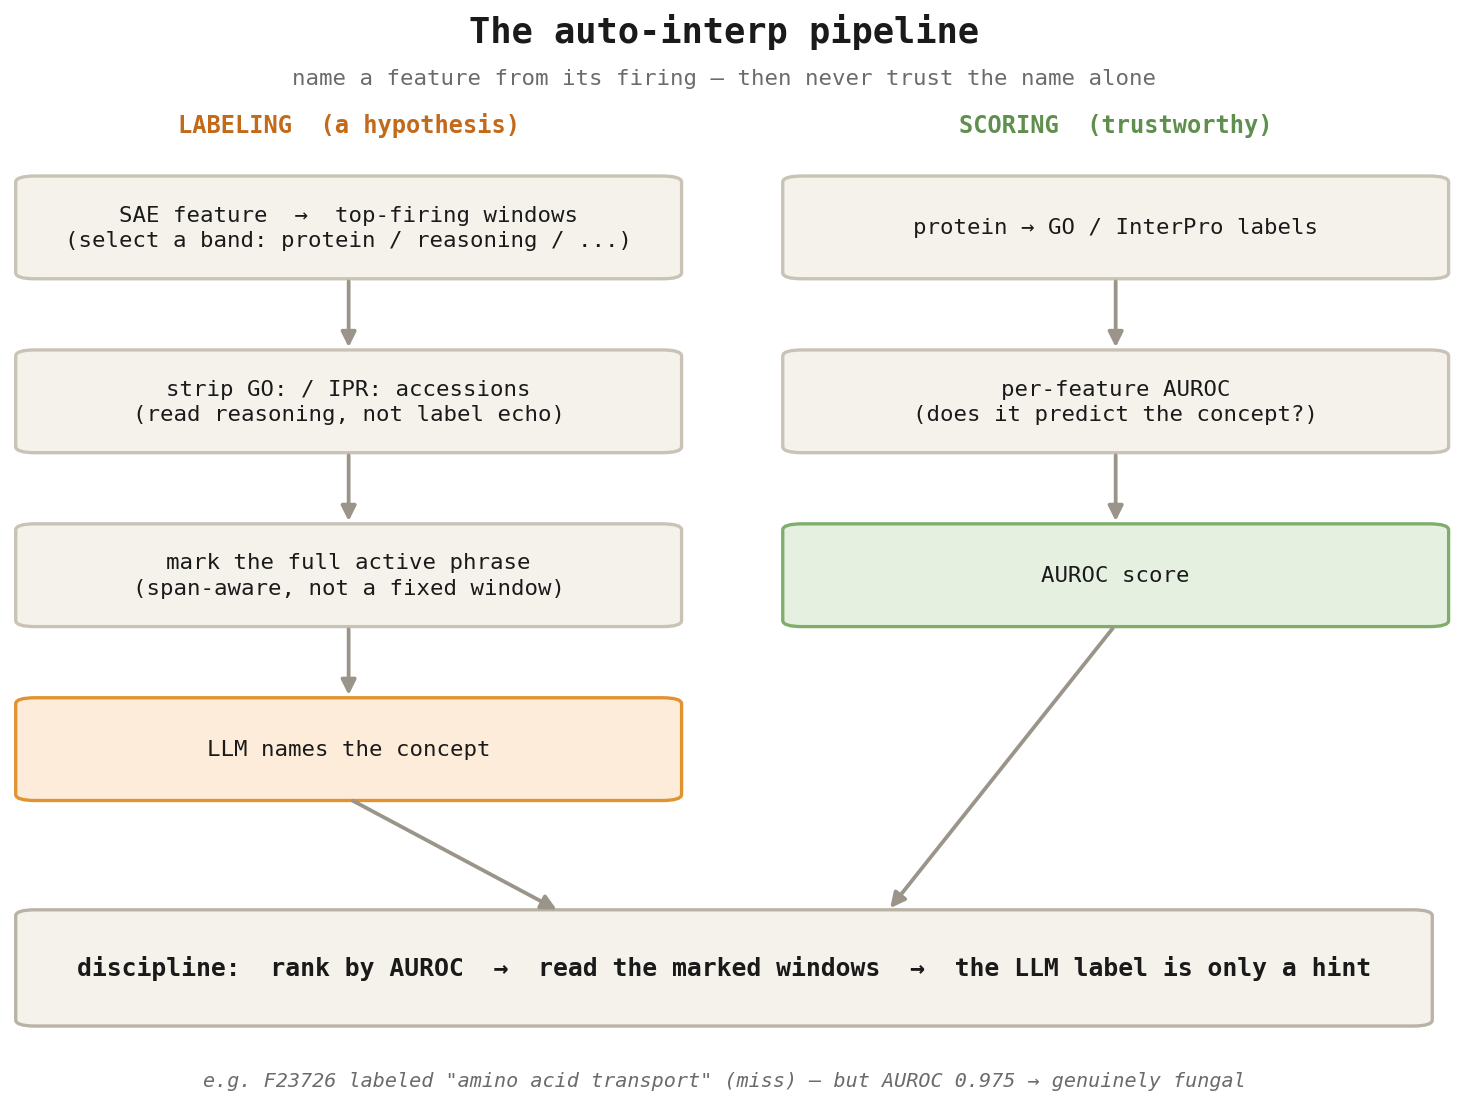
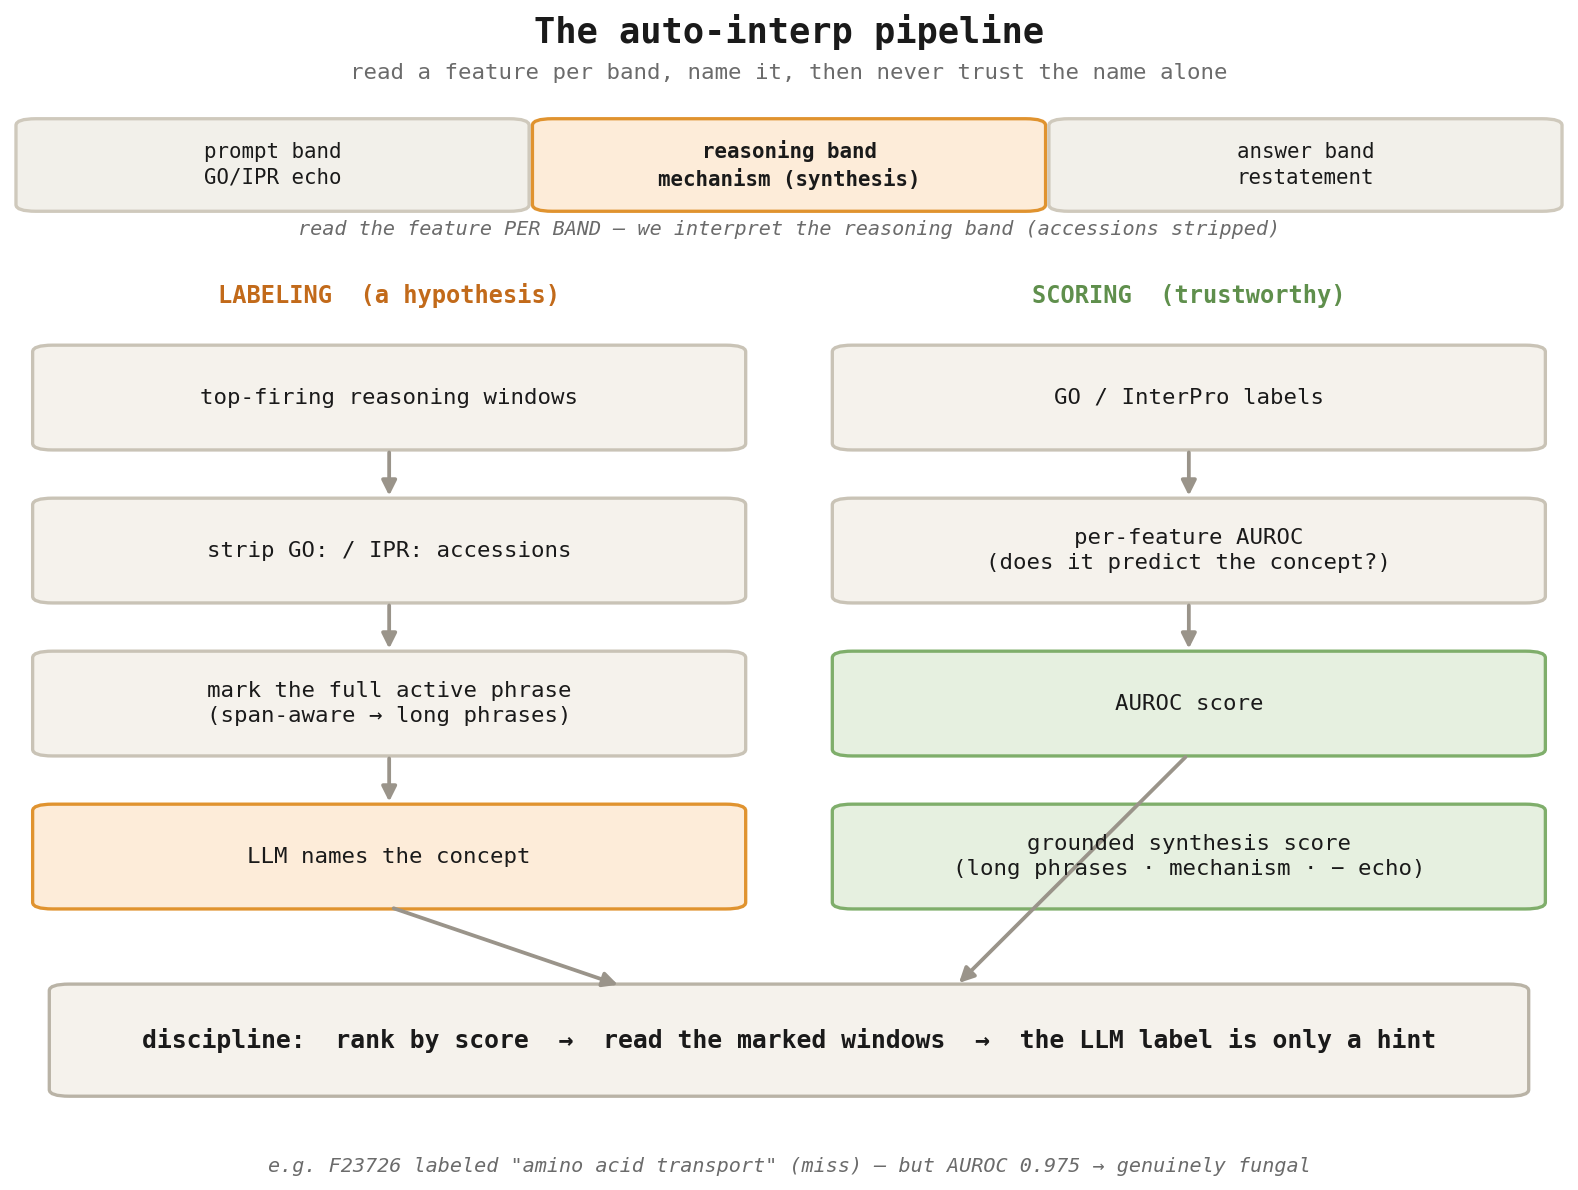
Blog: tone/length pass + discussion; richer auto-interp diagram + 3-band example
- pipeline diagram: add band-separation strip (prompt=echo / reasoning=synthesis /
  answer=restatement) + grounded synthesis score; keep span-aware 'long phrases'
- walkthrough (F36488): add the answer band (restates named effectors + GO) -> now
  shows all three text bands
- §6 Discussion: what a text-aligned protein encoder would unlock (decodability +
  SAE-V cross-modal); 3 next steps (alignment, whitening expert, codon/DNA substrate)
- tone/length: drop redundant 4-row table (trend figure covers it), trim cross-modal
  caption, 'Honest caveat'->'Caveat', 'mandatory'->'required'

Changed region(s): [[0.0, 0.0, 1.0, 0.9846]]

diff --git a/bionemo-recipes/interpretability/sparse_autoencoders/recipes/bioreason_pro/scripts/make_feature_figs.py b/bionemo-recipes/interpretability/sparse_autoencoders/recipes/bioreason_pro/scripts/make_feature_figs.py
@@ -107,15 +107,18 @@ def new_fig(h):
 
 
 # ===== FIGURE A: auto-interp walkthrough (F36488, per-band contrast) =====
-fig, c = new_fig(5.2)
+fig, c = new_fig(6.4)
 c.header("Feature 36488  —  antimicrobial-defense reasoning", big=True)
-c.sub("fungal-defense AUROC 0.943   ·   the SAME feature read on two bands   ·   orange = activation strength")
+c.sub("fungal-defense AUROC 0.943   ·   the SAME feature read on all three text bands   ·   orange = activation strength")
 c.gap(0.6)
-c.header("Reasoning band  →  genuine mechanism (across many proteins)")
+c.header("Reasoning band  →  genuine mechanism (synthesis, across many proteins)")
 c.wins(windows(36488, "reasoning", 6, ctx=5, maxlen=34))
 c.rule()
-c.header("Prompt band  →  echoes the given GO accessions")
+c.header("Prompt band  →  echoes the given GO accessions (label-reading)")
 c.wins(windows(36488, "prompt", 2))
+c.rule()
+c.header("Answer band  →  restates named effectors + GO terms")
+c.wins(windows(36488, "answer", 2))
 fig.savefig(OUT + "fig_autointerp_walkthrough.png", dpi=170, facecolor="white", bbox_inches="tight")
 print("wrote fig_autointerp_walkthrough.png")
 
@@ -198,32 +201,41 @@ def arrow(ax, x0, y0, x1, y1):
                                  mutation_scale=13, color="#9a948a", lw=1.6))
 
 
-fig = plt.figure(figsize=(9.6, 6.6)); fig.patch.set_facecolor("white")
+fig = plt.figure(figsize=(9.8, 7.2)); fig.patch.set_facecolor("white")
 ax = fig.add_axes([0, 0, 1, 1]); ax.axis("off")
-ax.text(0.5, 0.965, "The auto-interp pipeline", ha="center", family=MONO, fontsize=15, fontweight="bold", color=INK)
-ax.text(0.5, 0.928, "name a feature from its firing — then never trust the name alone",
+ax.text(0.5, 0.975, "The auto-interp pipeline", ha="center", family=MONO, fontsize=15, fontweight="bold", color=INK)
+ax.text(0.5, 0.945, "read a feature per band, name it, then never trust the name alone",
         ha="center", family=MONO, fontsize=9.5, color=MUTED)
-LX, RX, W, H = 0.27, 0.74, 0.40, 0.088
-ax.text(LX, 0.885, "LABELING  (a hypothesis)", ha="center", family=MONO, fontsize=10, fontweight="bold", color="#c26a1a")
-ax.text(RX, 0.885, "SCORING  (trustworthy)", ha="center", family=MONO, fontsize=10, fontweight="bold", color="#5f8f4c")
-LY = [0.80, 0.645, 0.49, 0.335]
-box(ax, LX, LY[0], W, H, "SAE feature  →  top-firing windows\n(select a band: protein / reasoning / ...)")
-box(ax, LX, LY[1], W, H, "strip GO: / IPR: accessions\n(read reasoning, not label echo)")
-box(ax, LX, LY[2], W, H, "mark the full active phrase\n(span-aware, not a fixed window)")
+# --- band separation strip ---
+BW = 0.30
+box(ax, 0.19, 0.875, BW, 0.072, "prompt band\nGO/IPR echo", fc="#f2f0ea", ec="#cfc9bc", fs=8.8)
+box(ax, 0.50, 0.875, BW, 0.072, "reasoning band\nmechanism (synthesis)", fc="#fdecd9", ec="#e0932f", fs=8.8, bold=True)
+box(ax, 0.81, 0.875, BW, 0.072, "answer band\nrestatement", fc="#f2f0ea", ec="#cfc9bc", fs=8.8)
+ax.text(0.5, 0.818, "read the feature PER BAND — we interpret the reasoning band (accessions stripped)",
+        ha="center", family=MONO, fontsize=8.5, color=MUTED, style="italic")
+# --- two tracks ---
+LX, RX, W, H = 0.26, 0.74, 0.42, 0.082
+ax.text(LX, 0.762, "LABELING  (a hypothesis)", ha="center", family=MONO, fontsize=10, fontweight="bold", color="#c26a1a")
+ax.text(RX, 0.762, "SCORING  (trustworthy)", ha="center", family=MONO, fontsize=10, fontweight="bold", color="#5f8f4c")
+LY = [0.685, 0.560, 0.435, 0.310]
+box(ax, LX, LY[0], W, H, "top-firing reasoning windows")
+box(ax, LX, LY[1], W, H, "strip GO: / IPR: accessions")
+box(ax, LX, LY[2], W, H, "mark the full active phrase\n(span-aware → long phrases)")
 box(ax, LX, LY[3], W, H, "LLM names the concept", fc="#fdecd9", ec="#e0932f")
 for i in range(3):
     arrow(ax, LX, LY[i] - H / 2, LX, LY[i + 1] + H / 2)
-box(ax, RX, LY[0], W, H, "protein → GO / InterPro labels")
+box(ax, RX, LY[0], W, H, "GO / InterPro labels")
 box(ax, RX, LY[1], W, H, "per-feature AUROC\n(does it predict the concept?)")
 box(ax, RX, LY[2], W, H, "AUROC score", fc="#e6f0e0", ec="#7fae6b")
+box(ax, RX, LY[3], W, H, "grounded synthesis score\n(long phrases · mechanism · − echo)", fc="#e6f0e0", ec="#7fae6b")
 for i in range(2):
     arrow(ax, RX, LY[i] - H / 2, RX, LY[i + 1] + H / 2)
-box(ax, 0.5, 0.14, 0.86, 0.10,
-    "discipline:  rank by AUROC  →  read the marked windows  →  the LLM label is only a hint",
+box(ax, 0.5, 0.16, 0.88, 0.088,
+    "discipline:  rank by score  →  read the marked windows  →  the LLM label is only a hint",
     fc="#f5f2ec", ec="#b9b3a6", fs=10.5, bold=True)
-arrow(ax, LX, LY[3] - H / 2, 0.40, 0.14 + 0.05)
-arrow(ax, RX, LY[2] - H / 2, 0.60, 0.14 + 0.05)
-ax.text(0.5, 0.035, 'e.g. F23726 labeled "amino acid transport" (miss) — but AUROC 0.975 → genuinely fungal',
+arrow(ax, LX, LY[3] - H / 2, 0.40, 0.16 + 0.044)
+arrow(ax, RX, LY[2] - H / 2, 0.60, 0.16 + 0.044)
+ax.text(0.5, 0.052, 'e.g. F23726 labeled "amino acid transport" (miss) — but AUROC 0.975 → genuinely fungal',
         ha="center", family=MONO, fontsize=8.5, color=MUTED, style="italic")
 fig.savefig(OUT + "fig_autointerp_pipeline.png", dpi=170, facecolor="white", bbox_inches="tight")
 print("wrote fig_autointerp_pipeline.png")
@@ -247,9 +259,9 @@ print("wrote fig_fungal_feature_card.png")
 
 # ===== FIGURE F: domain-F1 localization panel (nucleic-acid-binding, robust; not kinesin-only) =====
 DOM = [
-    (18647, "Protein kinase domain (IPR000719)", "domain-F1 0.93 · 90 regions · fires on the catalytic motifs (DFG · GTPYY · APE)"),
     (13950, "RNA-binding domain (RRM)", "domain-F1 0.95 · 60 regions · fires on the RNP β-sheet residues"),
     (8277, "Zinc finger, C2H2-type", "domain-F1 0.93 · 48 regions"),
+    (18162, "Helix-loop-helix DNA-binding", "domain-F1 0.93 · 27 regions"),
     (4647, "the AUROC-oversell contrast", "AUROC 0.98  BUT  domain-F1 0.00 — fires OUTSIDE any domain (why AUROC alone misleads)"),
 ]
 fig, c = new_fig(5.4)
@@ -263,7 +275,7 @@ for i, (fid, dom, sub) in enumerate(DOM):
     if i < len(DOM) - 1:
         c.rule()
 c.gap(0.2)
-c.sub("(kinesin F18393 scores the highest domain-F1, 0.98, but on only 15 regions — small-n; this kinase / RNA / zinc panel is the robust result.)")
+c.sub("(kinesin F18393 scores the highest domain-F1, 0.98, but on only 15 regions — small-n; this RNA / zinc / HLH nucleic-acid-binding panel is the robust result.)")
 fig.savefig(OUT + "fig_domain_f1_panel.png", dpi=170, facecolor="white", bbox_inches="tight")
 print("wrote fig_domain_f1_panel.png")
 

diff --git a/bionemo-recipes/interpretability/sparse_autoencoders/recipes/bioreason_pro/results/BLOG.md b/bionemo-recipes/interpretability/sparse_autoencoders/recipes/bioreason_pro/results/BLOG.md
@@ -4,7 +4,7 @@
 
 ## Abstract
 
-BioReason-Pro is a multimodal model that fuses ESM3 protein embeddings, a GO-graph encoder, and a Qwen3-4B reasoning LLM to predict protein function through a written reasoning trace. We train sparse autoencoders (SAEs) on its residual stream and pull the fused representation apart into interpretable features. We find (i) **reasoning-band features that decode genuine biological concepts** above a strict leakage floor — most cleanly a distributed *antimicrobial-defense circuit* with pathogen-specific detectors on a shared innate-immune core; (ii) **protein-domain features that localize**, measured with a domain-F1 metric that separates localized detectors (a kinesin-motor feature, domain-F1 = 0.98) from high-AUROC features that fire *outside* their domain; and (iii) a **cross-modal structure** linking protein features to reasoning features that is correlational and prompt-mediated, not a causal fusion. This required solving a multimodal-training problem — a single dictionary is monopolized by the majority (text) modality, so **loss balancing is mandatory** (it yields 20–50× more protein-selective features). We ship an auto-interp pipeline, a grounded synthesis-quality scorer, and an interactive feature atlas. A side observation: the SAE does not out-decode the raw residual stream on dense probes — the ESM3 encoder is the ceiling — which is why the SAE's value here is *interpretable structure*, not raw decodability.
+BioReason-Pro is a multimodal model that fuses ESM3 protein embeddings, a GO-graph encoder, and a Qwen3-4B reasoning LLM to predict protein function through a written reasoning trace. We train sparse autoencoders (SAEs) on its residual stream and pull the fused representation apart into interpretable features. We find (i) **reasoning-band features that decode genuine biological concepts** above a strict leakage floor — most cleanly a distributed *antimicrobial-defense circuit* with pathogen-specific detectors on a shared innate-immune core; (ii) **protein-domain features that localize**, measured with a domain-F1 metric that separates localized detectors (a kinesin-motor feature, domain-F1 = 0.98) from high-AUROC features that fire *outside* their domain; and (iii) a **cross-modal structure** linking protein features to reasoning features that is correlational and prompt-mediated, not a causal fusion. This required solving a multimodal-training problem — a single dictionary is monopolized by the majority (text) modality, so **loss balancing is required** (it yields 20–50× more protein-selective features). We ship an auto-interp pipeline, a grounded synthesis-quality scorer, and an interactive feature atlas. A side observation: the SAE does not out-decode the raw residual stream on dense probes — the ESM3 encoder is the ceiling — which is why the SAE's value here is *interpretable structure*, not raw decodability.
 
 ---
 
@@ -32,16 +32,7 @@ BioReason-Pro predicts protein function not as a classifier head but as a **reas
 
 **A multimodal SAE cannot be trained naïvely.** In the natural token mix, protein residues are ~15% of the stream and reasoning text is ~80% (see the dataset table in §2.3). Left alone, text tokens monopolize the dictionary: they activate essentially the whole live dictionary (~15,800 features at layer 16) while protein collapses into ~230. The SAE "works" — good reconstruction, low dead-latent % — but it has almost no protein vocabulary.
 
-The fix is **modality balancing at load time** (`--balance-modality`): we drop the `<go>` slots (an ablation shows they are model-unused — a fixed ontology reduction, not per-protein terms), and **downsample text to ~50/50 with protein** (text-keep ≈ 0.19). We measure the effect as *protein-selective* features (fires on >1% of protein tokens, <0.1% of text):
-
-| Layer | protein-selective (unbalanced → balanced) |
-|------:|:-----------------------------------------:|
-| L16 | 12 → **650** |
-| L24 | 34 → **928** (peak) |
-| L30 | 12 → **663** |
-| L32 |  9 → **655** |
-
-A **20–50× increase at every layer** — balancing carves out capacity the natural mix never gave protein (richest around L22–L24), without starving text.
+The fix is **modality balancing at load time** (`--balance-modality`): we drop the `<go>` slots (an ablation shows they are model-unused — a fixed ontology reduction, not per-protein terms), and **downsample text to ~50/50 with protein** (text-keep ≈ 0.19). Measured as *protein-selective* features (fires on >1% of protein tokens, <0.1% of text), balancing lifts protein from ~10–34 dedicated features to **~570–928 at every layer** (peak L24) — a 20–50× increase, richest around L22–L24, and without starving text.
 
 ![balancing at layer 24](charts/fig_balance_condensed.png)
 > **Modality balancing at layer 24 (the peak).** Each dot is a feature: x = fraction of text tokens it fires on, y = fraction of protein tokens; blue = protein-selective. Unbalanced (left) gives protein 34 dedicated features; balanced (right) gives 928. All nine layers in Appendix A.
@@ -107,7 +98,7 @@ The genuine set has a biological shape: **pathogen-specific detectors** (F23726 
 ![fungal feature card](charts/fig_fungal_feature_card.png)
 > **A pathogen-detector feature (F23726), read across bands.** On the reasoning band it names specific fungi and mechanism across multiple proteins — the recurring vocabulary (*filamentous · fungi · Aspergillus · Helminthosporium · Peronospora · antifungal*) lights up in every example. The prompt band echoes GO accessions; the answer band restates. Fungal-defense AUROC 0.975.
 
-Honest caveat: a sparse probe selects *predictive* features, not features that *mean* the concept (≈⅓ are co-occurring correlates), and the **protein band has no clean defense feature** — defense is a reasoning-band phenomenon.
+Caveat: a sparse probe selects *predictive* features, not features that *mean* the concept (≈⅓ are co-occurring correlates), and the **protein band has no clean defense feature** — defense is a reasoning-band phenomenon.
 
 ### 3.2 Protein-domain features: Fisher enrichment + a localization metric
 
@@ -138,7 +129,7 @@ The two methods **disagree** — the pairing's kinesin partners are *not* recrui
 By the stricter **SAE-V** definition of a cross-modal feature (*arXiv 2502.17514*) — a *single* latent genuinely active across both modalities — we find **no examples**: the per-feature cross-modal metric is ≈ 0 for every feature. The alignment we report is co-activation between *separate* protein and reasoning features, not one fused cross-modal feature.
 
 ![cross-modal alignment](charts/fig_crossmodal_alignment.png)
-> **Cross-modal alignment.** *Top:* per-protein co-activation for two aligned pairs (GPCR r = 0.89, kinesin r = 0.62) — each dot is a protein, a bio feature's activation vs its best-correlated reasoning feature. *Bottom:* what the GPCR pair fires on — the protein detector (F7369) fires on the transmembrane residues, while its reasoning partner (F3184) writes the GPCR mechanism ("rhodopsin-like, 7TM domain… class A"). The alignment is correlational and **prompt-mediated** — the 2×2 causal test shows the reasoning feature writes the concept while the paired protein feature is inert — not a fused feature-to-feature flow.
+> **Cross-modal alignment.** *Top:* per-protein co-activation for two pairs (GPCR r = 0.89, kinesin r = 0.62); each dot is a protein. *Bottom:* the GPCR pair — the protein detector (F7369) fires on the transmembrane residues, while its reasoning partner (F3184) writes the GPCR mechanism ("rhodopsin-like, 7TM domain… class A").
 
 ### 3.4 Synthesis features: reading genuine mechanism
 
@@ -173,7 +164,21 @@ Interpretability is exploratory, so we ship a browser-based atlas: per-band firi
 
 ---
 
-## 6. Conclusion
+## 6. Discussion: what an aligned protein encoder would unlock
+
+Two of our findings point the same way. The SAE does not out-decode the raw stream (§4), and no feature is genuinely cross-modal (§3.3) — both trace to one cause: the **ESM3 protein representation is collapsed** (token self-cosine ≈ 0.99). Collapsed tokens are hard to tell apart per-token (so decodability saturates and protein can't fill a balanced dictionary without dead latents), and they sit in a separate, low-diversity region of the residual stream from text (so there is no shared sub-space in which a single fused cross-modal feature could live).
+
+This predicts what a **text-aligned protein encoder** would change — one trained to place protein representations in the same space as their text descriptions (Prot2Text-style). Alignment would (i) spread protein tokens apart, recovering per-token decodability and letting protein fill a balanced dictionary, and (ii) put protein and reasoning into a shared geometry where an SAE-V-style feature — one latent active on both a protein's residues *and* the text about it — could form. Vision is the instructive contrast: MAIRA-2's Matryoshka-SAE recovered clean cross-modal clinical concepts because its image encoder is text-aligned and high-diversity, whereas a Matryoshka SAE on *our* stream never surfaced cross-modal features and, if anything, starved the minority modality further. The bottleneck is the encoder, not the SAE variant.
+
+Three directions follow:
+
+1. **Encoder alignment (Prot2Text-V2).** Align the protein encoder to text before extraction, then re-run the same recipe and re-test both decodability and the SAE-V cross-modal metric.
+2. **A per-modality whitening expert.** Even without re-training the encoder, dividing out the shared high-magnitude protein component before the SAE would de-collapse protein tokens — potentially recovering much of the benefit at far lower cost.
+3. **Richer input modalities.** A codon/DNA model is a more promising substrate: its tokens are far more diverse (self-cosine ~0.55 vs protein's 0.99) and not orthogonal to text (~0.31 vs ~0.0), so genuine cross-modal fusion features may be learnable there in a way they are not for collapsed protein embeddings.
+
+---
+
+## 7. Conclusion
 
 Applying SAEs to a multimodal protein-reasoning model, we recover **interpretable structure across all three modalities**: reasoning-band concepts that pass a strict leakage test (a distributed antimicrobial-defense circuit), protein-domain features that *localize* (domain-F1), and a cross-modal alignment between them that we show is prompt-mediated rather than causal. The enabling method is loss balancing — a single dictionary must be forced to give the minority modality room. The limitation is that the SAE does not out-decode the raw stream, because the protein encoder is collapsed; the value is not decodability but a set of *readable, localizable, steerable* features and a clear picture of where the limit is. All training artifacts, the auto-interp pipeline, the synthesis scorer, and the feature atlas are open-sourced.
 
